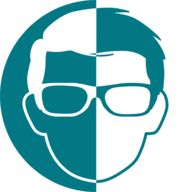
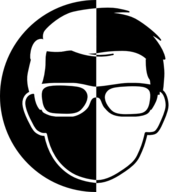
bw updates

diff --git a/src/containers/Home.js b/src/containers/Home.js
@@ -14,7 +14,7 @@ const Home = () => {
           <Subtext>Instruction</Subtext>
         </Dev>
         <BannerIcon>
-          <img src="https://cdn.discordapp.com/attachments/587692729044303893/646737878919151632/kaos_kj_tw.png" alt="wkgreen_icon" />
+          <img src="https://cdn.discordapp.com/attachments/587692729044303893/646749955305766913/kaos_kj_bw.png" alt="wkgreen_icon" />
         </BannerIcon>
         <Design className="flex">
           <Subtitle>Designer</Subtitle>
@@ -53,8 +53,8 @@ const Home = () => {
       </Section>
 
       {/* EXPERIENCE AND PROJECTS */ }
-      <Section className="primary">
-        <BarHeader className="primary">Experience.</BarHeader>
+      <Section className="light">
+        <BarHeader className="light">Experience.</BarHeader>
         <Row>
           <Card className="skinny flat">
             <HeaderImg>
@@ -96,8 +96,8 @@ const Home = () => {
       </Section>
 
       {/* SKILLS AND LANGS */ }
-      <Section className="dark">
-        <BarHeader className="dark">Skills.</BarHeader>
+      <Section className="light">
+        <BarHeader className="light">Skills.</BarHeader>
         <Column>
           <Card className="flat">
             <h3>Lifetime Learner</h3>
@@ -149,7 +149,7 @@ const Black = styled.div`
   left: 0;
   width: 50%;
   height: 100%;
-  background: ${colors.darker };
+  background: black;
 `
 
 const BannerIcon = styled.div`
@@ -187,7 +187,6 @@ const Design = styled.div`
   justify-content: center;
   align-items: flex-end;
   order: 4;
-  color: ${colors.darker }
 `
 
 const Subtitle = styled.h1`

diff --git a/src/App.js b/src/App.js
@@ -44,12 +44,9 @@ const NavBar = styled.div`
       width: 100vw;
       height: ${opts.headerH }px;
       display: flex;
-      background: white;
+      background: ${colors.light };
       align-items: center;
-      color: ${colors.darker };
-      & a {
-        color: ${colors.darker };
-      }
+      box-shadow: rgba(0,0,0,.1) 1px 1px 10px;
       & .title {
         margin-left: 5px;
         cursor: default;

diff --git a/src/components/index.js b/src/components/index.js
@@ -116,7 +116,7 @@ export const HeaderImg = styled.div`
   display: flex;
   justify-content: center;
   overflow: hidden;
-  background: ${colors.secondary };
+  background: ${colors.darker };
   color: white;
   border-radius: 5px;
   &.red {
